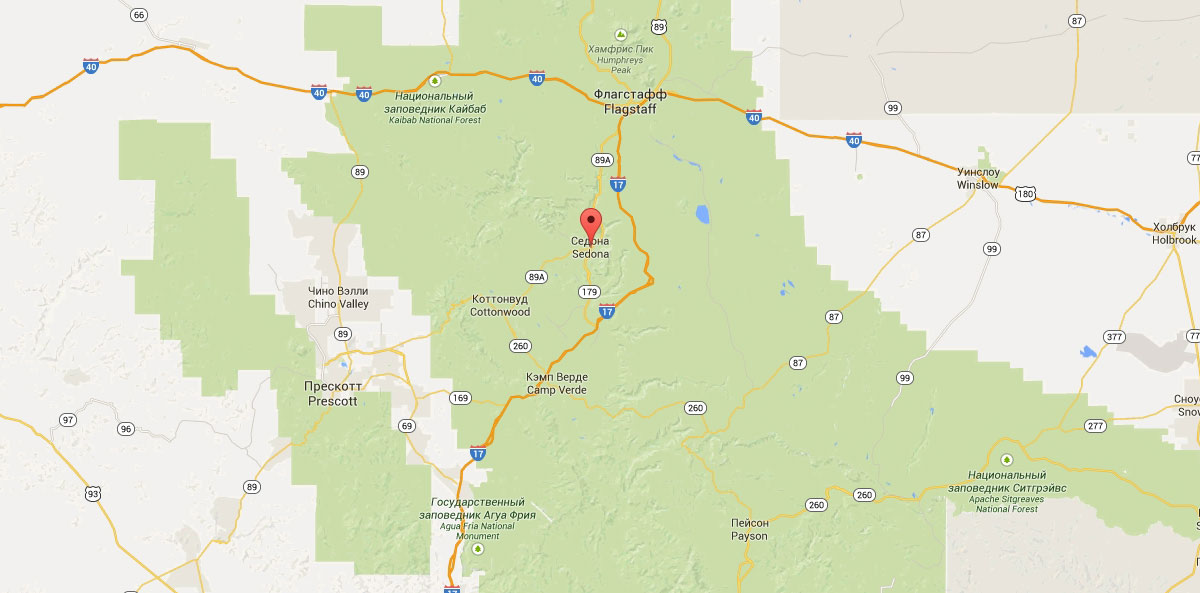
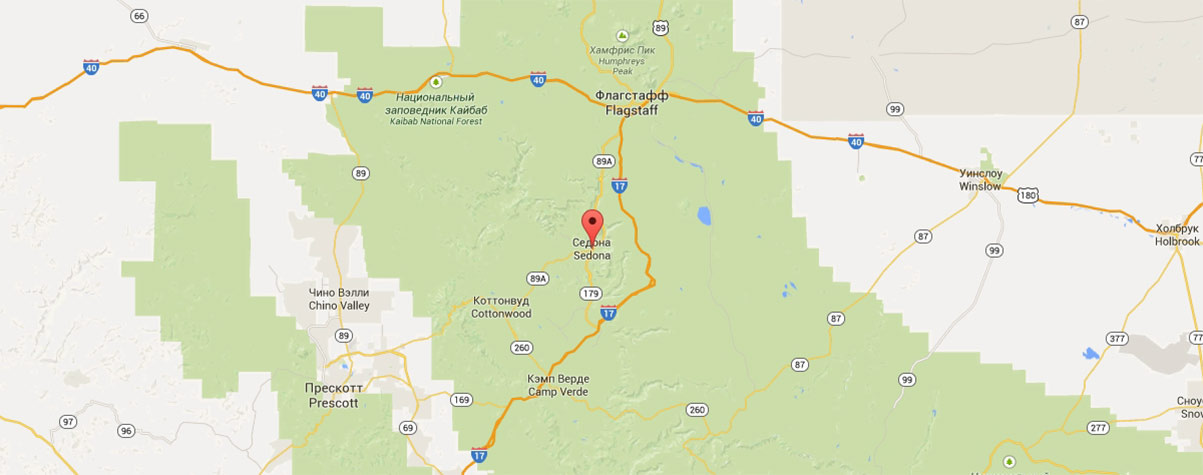
1

diff --git a/css/style.css b/css/style.css
@@ -62,14 +62,11 @@ h2 {
 
 .navigation li:nth-child(2) {
   margin-right: 211px;
+  text-indent: 20px;
 }
 
-.navigation li:nth-child(2) a {
-  padding-left: 20px;
-}
-
-.navigation li:nth-child(3) a {
-  padding-left: 95px;
+.navigation li:nth-child(3) {
+  text-indent: 95px;
 }
 
 .navigation li:nth-child(4) {
@@ -144,8 +141,12 @@ h2 {
 }
 
 .page-sedona img {
-  padding: 75px 368px;
-  margin-bottom: 40px;
+  display: block;
+  width: 460px;
+  margin: 0 auto;
+  margin-bottom: 45px;
+  padding: 75px 0;
+  padding-bottom: 95px;
 }
 
 .title {

diff --git a/index.html b/index.html
@@ -123,7 +123,7 @@
             </form>
         </div>
         <div class="img-map">
-          <img src="http://placehold.it/150x100-4" width="100%" height="475">
+          <img src="img/map.jpg" width="100%" height="475">
         </div>
       </section>
     </main>
